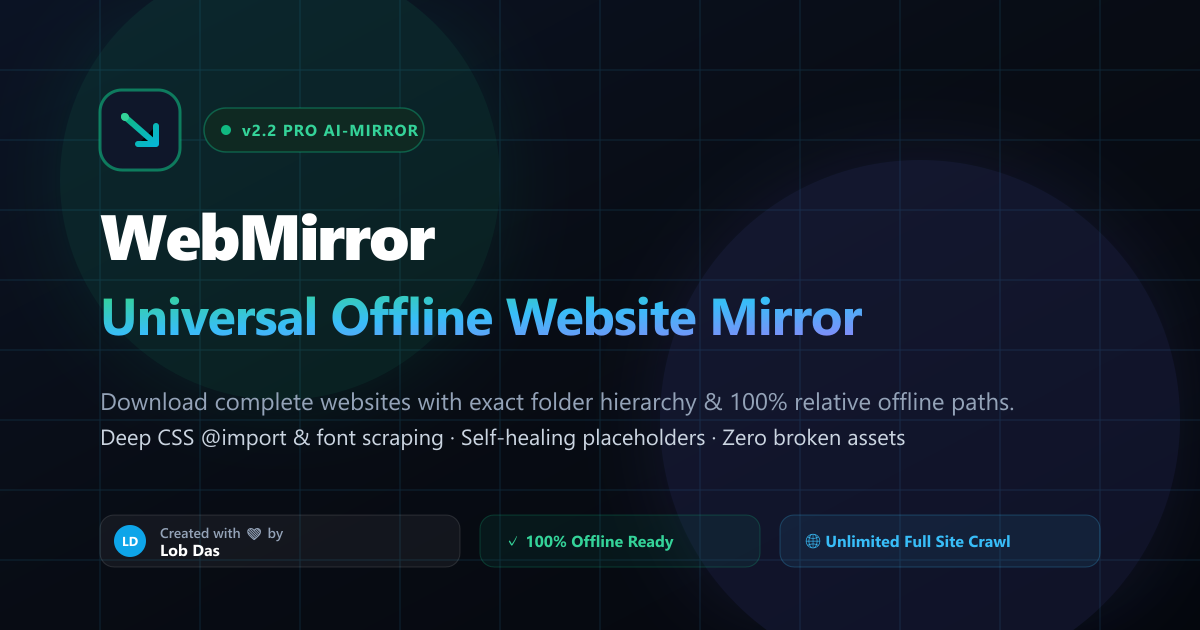
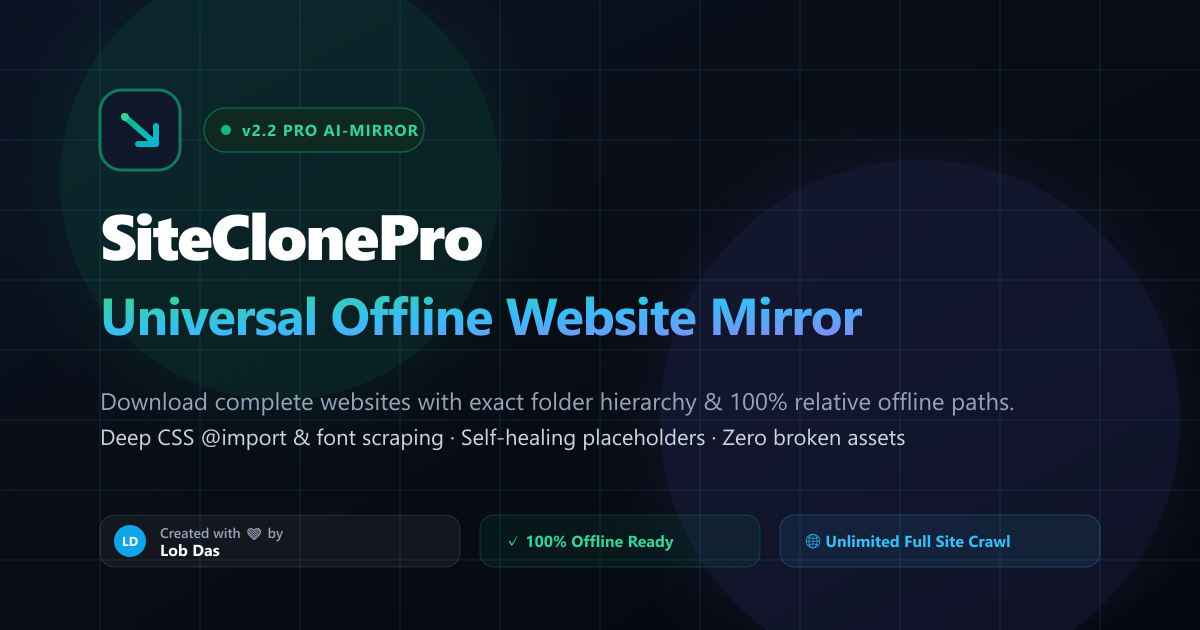
feat(brand): rename website to SiteClonePro across UI, metadata, manifest, OG images, and documentation

Changed region(s): [[0.0617, 0.3317, 0.4008, 0.4222]]

diff --git a/src/app/layout.tsx b/src/app/layout.tsx
@@ -27,13 +27,15 @@ export const viewport: Viewport = {
 export const metadata: Metadata = {
   metadataBase: new URL("https://webmirror.vercel.app"),
   title: {
-    default: "WebMirror — AI-Powered Universal Website Archiver & Offline Mirror",
-    template: "%s | WebMirror",
+    default: "SiteClonePro — AI-Powered Universal Website Archiver & Offline Mirror",
+    template: "%s | SiteClonePro",
   },
   description:
     "Universal AI-assisted website archiver and offline mirroring engine. Mirror and download complete websites with 100% authentic folder structures, offline relative path rewriting, CSS & web font extraction, and zero broken assets. Created by Lob Das.",
-  applicationName: "WebMirror",
+  applicationName: "SiteClonePro",
   keywords: [
+    "siteclonepro",
+    "site clone pro",
     "website archiver",
     "offline website downloader",
     "mirror website offline",
@@ -68,8 +70,8 @@ export const metadata: Metadata = {
     type: "website",
     locale: "en_US",
     url: "https://webmirror.vercel.app",
-    siteName: "WebMirror",
-    title: "WebMirror — AI-Powered Universal Website Archiver & Offline Mirror",
+    siteName: "SiteClonePro",
+    title: "SiteClonePro — AI-Powered Universal Website Archiver & Offline Mirror",
     description:
       "Archive and download complete websites offline with exact folder hierarchy, relative links rewriting, and full CSS/fonts extraction. Created by Lob Das.",
     images: [
@@ -77,14 +79,14 @@ export const metadata: Metadata = {
         url: "/og-image.png",
         width: 1200,
         height: 630,
-        alt: "WebMirror - Universal Website Archiver created by Lob Das",
+        alt: "SiteClonePro - Universal Website Archiver created by Lob Das",
         type: "image/png",
       },
     ],
   },
   twitter: {
     card: "summary_large_image",
-    title: "WebMirror — AI-Powered Universal Website Archiver",
+    title: "SiteClonePro — AI-Powered Universal Website Archiver",
     description:
       "Download complete websites offline with 100% authentic folder structures and offline relative paths. Created by Lob Das.",
     creator: "@lobdas",
@@ -125,7 +127,7 @@ export default function RootLayout({
     "@graph": [
       {
         "@type": "SoftwareApplication",
-        name: "WebMirror",
+        name: "SiteClonePro",
         operatingSystem: "All (Windows, macOS, Linux, iOS, Android)",
         applicationCategory: "DeveloperApplication",
         offers: {
@@ -156,7 +158,7 @@ export default function RootLayout({
       },
       {
         "@type": "WebSite",
-        name: "WebMirror",
+        name: "SiteClonePro",
         url: "https://webmirror.vercel.app",
         author: {
           "@type": "Person",

diff --git a/src/app/page.tsx b/src/app/page.tsx
@@ -189,7 +189,7 @@ export default function Home() {
               <span className="brand-arrow">↘</span>
             </div>
             <div className="brand-text">
-              <span className="brand-title">WebMirror</span>
+              <span className="brand-title">SiteClonePro</span>
               <span className="brand-tag">v2.2 Pro</span>
             </div>
           </div>
@@ -600,13 +600,13 @@ export default function Home() {
         )}
 
         {/* SEO & Knowledge Showcase Section */}
-        <section className="seo-showcase-section" aria-label="WebMirror Archiving Architecture">
+        <section className="seo-showcase-section" aria-label="SiteClonePro Archiving Architecture">
           <div className="seo-header">
             <span className="seo-tag">AI-Optimized Offline Mirroring</span>
             <h2 className="seo-headline">Engineered for Flawless Local Browsing</h2>
             <p className="seo-sub">
               Unlike ordinary browser &ldquo;Save Page As&rdquo; commands that break deep CSS paths and fonts, 
-              WebMirror mathematically mirrors server directory trees with zero broken assets.
+              SiteClonePro mathematically mirrors server directory trees with zero broken assets.
             </p>
           </div>
 
@@ -644,7 +644,7 @@ export default function Home() {
           <div className="footer-left">
             <div className="footer-brand">
               <span className="footer-mark">↘</span>
-              <strong>WebMirror</strong>
+              <strong>SiteClonePro</strong>
             </div>
             <p className="footer-desc">
               Universal website archiver and offline asset mirror. Preserves authentic folder

diff --git a/src/app/manifest.ts b/src/app/manifest.ts
@@ -2,8 +2,8 @@ import type { MetadataRoute } from "next";
 
 export default function manifest(): MetadataRoute.Manifest {
   return {
-    name: "WebMirror — Universal Website Archiver & Offline Mirror",
-    short_name: "WebMirror",
+    name: "SiteClonePro — Universal Website Archiver & Offline Mirror",
+    short_name: "SiteClonePro",
     description:
       "Archive and download complete websites offline with exact folder structures, AI-powered relative path rewriting, and zero broken assets.",
     start_url: "/",

diff --git a/README.md b/README.md
@@ -1,6 +1,6 @@
 <div align="center">
 
-# 🌐 WebMirror
+# 🌐 SiteClonePro
 
 ### The Ultimate Website Mirroring & Offline Asset Archiver
 
@@ -19,7 +19,7 @@
 ---
 
 [Key Features](#-key-features) •
-[Why WebMirror?](#-why-webmirror-vs-others) •
+[Why SiteClonePro?](#-why-siteclonepro-vs-others) •
 [How It Works](#-how-it-works) •
 [Quick Start](#-quick-start) •
 [Crawl Depth Controls](#-crawl-depth-controls) •
@@ -31,11 +31,11 @@
 
 ---
 
-## 💡 Why WebMirror vs. Others?
+## 💡 Why SiteClonePro vs. Others?
 
-Most website copiers (like legacy `wget`, `HTTrack`, or basic scraper scripts) produce broken offline copies because modern web apps use dynamic CSS `url()` fonts, CDNs, `srcset`, lazy-loaded images, and JavaScript loaders that freeze offline. **WebMirror was built from the ground up to solve all of these problems.**
+Most website copiers (like legacy `wget`, `HTTrack`, or basic scraper scripts) produce broken offline copies because modern web apps use dynamic CSS `url()` fonts, CDNs, `srcset`, lazy-loaded images, and JavaScript loaders that freeze offline. **SiteClonePro was built from the ground up to solve all of these problems.**
 
-| Feature | Legacy Copiers (`wget`, `HTTrack`) | Basic Browser Extensions | ⚡ WebMirror |
+| Feature | Legacy Copiers (`wget`, `HTTrack`) | Basic Browser Extensions | ⚡ SiteClonePro |
 | :--- | :---: | :---: | :---: |
 | **Directory Preservation** | Cluttered / Mangled | Flat / Single folder | **Exact Mirror of Original Paths** |
 | **Recursive CSS & Font Scraping** | Often misses `@font-face` / `@import` | Misses fonts & SVGs | **Recursive Deep Extraction** |
@@ -51,7 +51,7 @@ Most website copiers (like legacy `wget`, `HTTrack`, or basic scraper scripts) p
 ## ✨ Key Features
 
 ### 🗂 1. True Hierarchy & Directory Preservation
-WebMirror analyzes the original server's URL pathnames and mirrors them directly on your disk:
+SiteClonePro analyzes the original server's URL pathnames and mirrors them directly on your disk:
 - `https://example.com/assets/css/main.css` ➔ `assets/css/main.css`
 - `https://example.com/assets/img/logo/brand.png` ➔ `assets/img/logo/brand.png`
 - `https://example.com/assets/fonts/font.woff2` ➔ `assets/fonts/font.woff2`
@@ -70,8 +70,8 @@ Every single reference in every HTML and CSS file is converted to point to its c
 - **Lazy Load Attributes**: Automatically discovers `data-src`, `data-lazy-src`, `data-original`, `data-bg`, and `data-srcset`.
 
 ### 🛡 4. Offline Resilience & Self-Healing
-- **Broken Image Protection**: If a remote server returns `404 Not Found` for an asset, WebMirror provides a transparent placeholder buffer so your offline pages never show broken image icons.
-- **Offline Preloader Bypass**: Modern sites often freeze on loading spinners offline because analytics or tracking scripts are blocked. WebMirror injects a micro-script that auto-dismisses preloaders once the DOM is ready.
+- **Broken Image Protection**: If a remote server returns `404 Not Found` for an asset, SiteClonePro provides a transparent placeholder buffer so your offline pages never show broken image icons.
+- **Offline Preloader Bypass**: Modern sites often freeze on loading spinners offline because analytics or tracking scripts are blocked. SiteClonePro injects a micro-script that auto-dismisses preloaders once the DOM is ready.
 
 ### 🌐 5. Full Site Deep Crawling & Sitemap Integration
 - Automatically checks `/sitemap.xml` and `/sitemap_index.xml` to discover all pages immediately.
